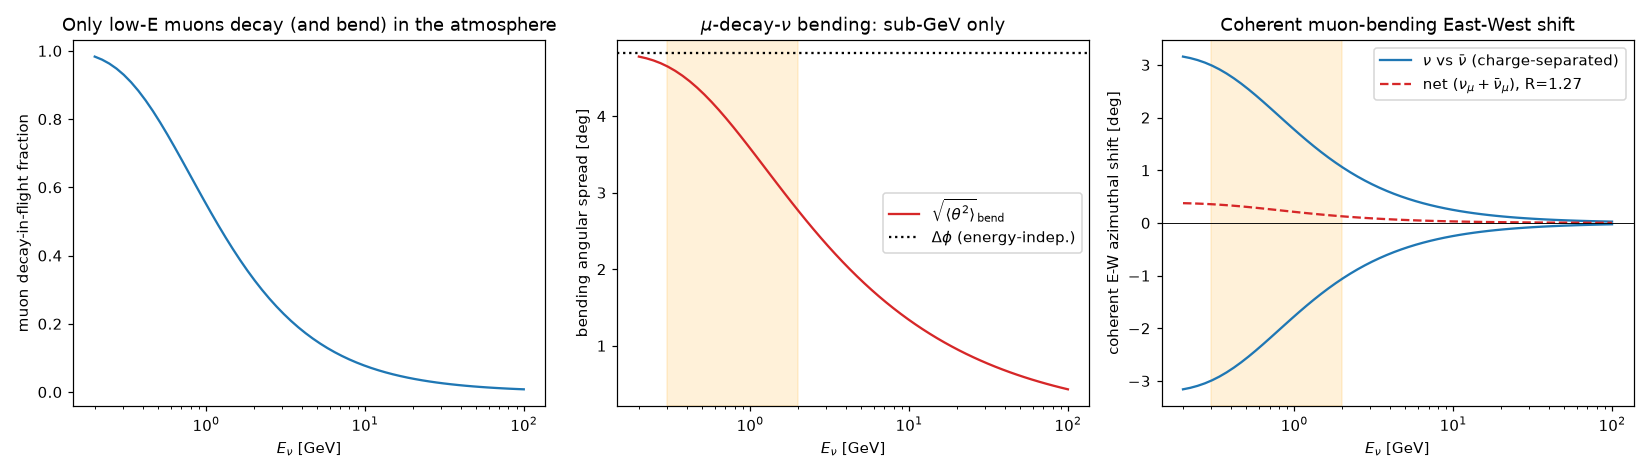
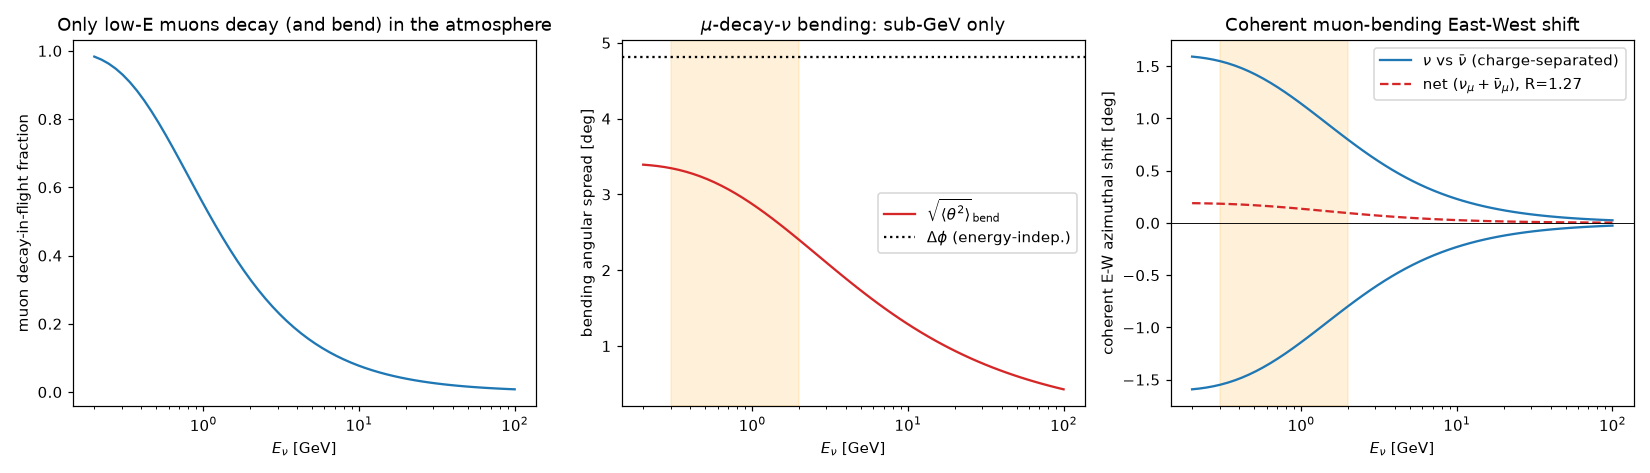
Address review: proper per-nucleus rigidity + zenith-dependent/channel-restricted muon bending
(1) Per-nucleus rigidity (review item #1, was High risk): the geomag cut now
splits the primary nucleon flux into free protons (A/Z=1, R=E) and bound nucleons
(He/CNO/Fe, A/Z~2, R~2E) using MCEq's own p,n fluxes (free p = p-n by isospin),
replacing the crude all-protons-R=E treatment. Bound nucleons are no longer
over-suppressed -> Honda agreement improves (0.5 GeV vertical 0.82->0.86, 1 GeV
0.91->0.94, up-going ->1.00).
(2) Muon bending (review item #2): replace the fixed 15 km path with the curved
zenith-dependent slant (path_length_km); restrict the bending to the muon-decay
nu_mu channel via muon_decay_numu_fraction w=f/(1+f) instead of bleeding into all
decay nu. Threaded zenith through mceq3d_solver.

diff --git a/tools/mceq3d/muon_bending.py b/tools/mceq3d/muon_bending.py
@@ -46,6 +46,8 @@ M_MU_KG = 1.883531e-28  # kg
 Q = 1.602176634e-19  # C
 C = 2.99792458e8  # m/s
 CTAU_MU = C * TAU_MU  # ~659 m
+R_EARTH_KM = 6371.0
+H_MU_PROD_KM = 15.0  # representative muon production altitude
 
 
 def bending_angle(b_gauss=0.45):
@@ -61,24 +63,58 @@ def decay_length_km(e_mu_gev):
     return gamma * beta * CTAU_MU / 1e3
 
 
-def decay_in_flight_fraction(e_mu_gev, path_km=15.0):
-    """Fraction of muons of energy E that decay within ``path_km`` of atmosphere
-    (the rest reach the ground and produce no atmospheric decay neutrino)."""
+def path_length_km(zenith_deg=0.0, h_prod_km=H_MU_PROD_KM):
+    """Curved slant path [km] from muon production (~h_prod) down to the surface
+    for arrival zenith.
+
+    Replaces the old fixed 15 km with the real geometric path: vertical -> h_prod;
+    near the horizon -> ~sqrt(2 R h) (hundreds of km), so near-horizon muons
+    traverse much more atmosphere and decay more. Curved-Earth chord:
+    ``L = -R cosθ + sqrt((R cosθ)^2 + 2 R h + h^2)``.
+    """
+    c = np.cos(np.deg2rad(np.asarray(zenith_deg, dtype=float)))
+    R = R_EARTH_KM
+    return -R * c + np.sqrt((R * c) ** 2 + 2 * R * h_prod_km + h_prod_km**2)
+
+
+def decay_in_flight_fraction(e_mu_gev, path_km=None, zenith_deg=0.0):
+    """Fraction of muons of energy E that decay before reaching the ground.
+
+    The path is the **zenith-dependent** curved slant length
+    (:func:`path_length_km`) unless an explicit ``path_km`` is given.
+    """
+    if path_km is None:
+        path_km = path_length_km(zenith_deg)
     return 1.0 - np.exp(-path_km / decay_length_km(e_mu_gev))
 
 
-def numu_bending_sigma2(e_nu_gev, b_gauss=0.45, path_km=15.0):
-    """Angular-spread variance <theta^2> [rad^2] that muon bending adds to a
-    mu-decay neutrino of energy ``e_nu_gev``.
+def muon_decay_numu_fraction(e_nu_gev, zenith_deg=0.0):
+    """Fraction of nu_mu that come from **muon decay** (vs direct pi/K decay).
 
-    The neutrino carries ~1/3 of the muon energy on average, so E_mu ~ 3 E_nu.
-    The spread is the bending angle weighted by the decay-in-flight fraction
-    (only decaying muons contribute); the RMS over the exponential decay-time
-    distribution equals the mean bending angle (Delta_phi), so var ~ f * Dphi^2.
+    Muon-decay nu_mu exist only when the muon decays in flight; relative to the
+    always-present direct nu_mu the weight is bounded ``w = f/(1+f)`` with ``f``
+    the decay-in-flight fraction -> ~0.5 sub-GeV (muons decay), ->0 at high E
+    (muons reach the ground). This is the weight by which muon bending should be
+    applied to a *lumped* nu_mu sample, so it does **not** bleed into the
+    direct-decay nu_mu.
     """
-    e_mu = 3.0 * np.asarray(e_nu_gev, dtype=float)
-    f = decay_in_flight_fraction(e_mu, path_km)
-    return f * bending_angle(b_gauss) ** 2
+    f = decay_in_flight_fraction(
+        3.0 * np.asarray(e_nu_gev, dtype=float), zenith_deg=zenith_deg
+    )
+    return f / (1.0 + f)
+
+
+def numu_bending_sigma2(e_nu_gev, b_gauss=0.45, zenith_deg=0.0):
+    """Angular-spread variance <theta^2> [rad^2] that muon bending adds to the
+    *muon-decay* nu_mu component of a lumped nu_mu sample of energy ``e_nu_gev``.
+
+    E_mu ~ 3 E_nu; the per-muon-decay bending RMS is the (energy-independent)
+    Delta_phi, and it is applied with the **muon-decay nu_mu fraction**
+    :func:`muon_decay_numu_fraction` so it is restricted to that channel rather
+    than added to every decay neutrino: ``var = w_mudecay * Dphi^2``.
+    """
+    w = muon_decay_numu_fraction(e_nu_gev, zenith_deg)
+    return w * bending_angle(b_gauss) ** 2
 
 
 def bending_deflection(vel_hat, b_gauss_enu, charge=+1):
@@ -107,21 +143,21 @@ def coherent_ew_shift_deg(b_north_gauss=0.30, charge=+1):
     return np.degrees(d[0])  # east component
 
 
-def numu_ew_asymmetry(e_nu_gev, b_north_gauss=0.30, charge_ratio=1.27, path_km=15.0):
+def numu_ew_asymmetry(e_nu_gev, b_north_gauss=0.30, charge_ratio=1.27, zenith_deg=0.0):
     """Net East-West azimuthal displacement [deg] of the *summed* mu-decay
     neutrino flux from coherent muon bending.
 
     mu+ and mu- deflect oppositely (+/- the coherent shift); with a muon charge
     ratio ``R = N+/N-`` the net displacement of the (nu_mu + nubar_mu) sum is
-    ``shift * (R-1)/(R+1)``, gated by the decay-in-flight fraction (sub-GeV only).
-    The charge-*separated* shift (full +/- the value, for nu vs nubar) is the
-    larger, flavour-dependent effect; return both.
+    ``shift * (R-1)/(R+1)``, weighted by the muon-decay nu_mu fraction (so it is
+    restricted to that channel, and is sub-GeV only). The charge-*separated* shift
+    (full +/- the value, for nu vs nubar) is the larger, flavour-dependent effect;
+    return both. The decay weight uses the zenith-dependent path.
     """
-    e_mu = 3.0 * np.asarray(e_nu_gev, dtype=float)
-    f = decay_in_flight_fraction(e_mu, path_km)
+    w = muon_decay_numu_fraction(e_nu_gev, zenith_deg)
     shift = coherent_ew_shift_deg(b_north_gauss, charge=+1)  # mu+ east
-    net = shift * (charge_ratio - 1) / (charge_ratio + 1) * f
-    return dict(net_shift_deg=net, charge_separated_deg=shift * f)
+    net = shift * (charge_ratio - 1) / (charge_ratio + 1) * w
+    return dict(net_shift_deg=net, charge_separated_deg=shift * w)
 
 
 def main(argv=None):
@@ -135,13 +171,17 @@ def main(argv=None):
             f"  B = {b:.2f} G  ->  Delta_phi = {np.degrees(bending_angle(b)):.2f} deg"
         )
 
-    print("\ndecay-in-flight fraction (15 km path) & neutrino bending spread:")
-    print("  E_nu[GeV]   E_mu[GeV]   f_decay   sqrt<theta^2>_bend [deg]")
+    print("\nzenith-dependent slant path (muon production ~15 km -> surface):")
+    for z in (0.0, 60.0, 85.0):
+        print(f"  zenith {z:4.0f} deg -> path {path_length_km(z):7.1f} km")
+
+    print("\nmuon-decay-channel bending spread (restricted to mu-decay nu_mu):")
+    print("  E_nu[GeV]   E_mu[GeV]   w_mu-decay   sqrt<theta^2>_bend [deg]")
     for enu in (0.3, 1.0, 3.0, 10.0, 30.0):
         emu = 3 * enu
-        f = decay_in_flight_fraction(emu)
+        w = muon_decay_numu_fraction(enu)
         s = np.degrees(np.sqrt(numu_bending_sigma2(enu)))
-        print(f"  {enu:7.1f}    {emu:7.1f}    {f:6.3f}     {s:6.2f}")
+        print(f"  {enu:7.1f}    {emu:7.1f}    {w:6.3f}      {s:6.2f}")
 
     print("\ncoherent charge-dependent E-W shift (B_north=0.30 G, vertical muon):")
     print(

diff --git a/tools/mceq3d/mceq3d_flux.py b/tools/mceq3d/mceq3d_flux.py
@@ -131,6 +131,18 @@ class MCEq3DFlux:
         n = self.mceq.pman[(2112, 0)]
         self._p_sl = slice(p.lidx, p.uidx)
         self._n_sl = slice(n.lidx, n.uidx)
+        # Per-nucleus rigidity bookkeeping. The geomagnetic cutoff is on RIGIDITY
+        # R = (A/Z)*E_nucleon, so free protons (A/Z=1) and bound nucleons
+        # (He/CNO/Fe, A/Z~2) are cut at different energies. By isospin the bound
+        # protons ~ the neutron flux, so from MCEq's own p/n nucleon fluxes:
+        #   free protons  = p - n  (A/Z=1),   bound protons = n (A/Z~2).
+        p_arr = self._phi0_std[self._p_sl]
+        n_arr = self._phi0_std[self._n_sl]
+        with np.errstate(invalid="ignore", divide="ignore"):
+            self._f_free = np.where(
+                p_arr > 0, np.clip((p_arr - n_arr) / p_arr, 0.0, 1.0), 1.0
+            )
+        self._az_bound = 2.0  # <A/Z> of bound nucleons (He/CNO ~2.0, Fe 2.08)
 
     # -- base: MCEq per zenith, curved atmosphere, no geomag --
     def base(self, cos_zeniths):
@@ -157,8 +169,12 @@ class MCEq3DFlux:
         full = {s: self.mceq.get_solution(s, 0).copy() for s in SPECIES}
         G = {s: np.ones((len(rc_grid), len(self.e))) for s in SPECIES}
         for j, rc in enumerate(rc_grid):
-            tp = _transmission(self.e, rc, az_over_z=1.0)  # protons R=E
-            tn = _transmission(self.e, rc, az_over_z=2.0)  # bound n, R~2E
+            # proper per-nucleus rigidity: split the proton flux into free
+            # (A/Z=1) and bound (A/Z~2); neutrons are all bound.
+            t1 = _transmission(self.e, rc, az_over_z=1.0)
+            t2 = _transmission(self.e, rc, az_over_z=self._az_bound)
+            tp = self._f_free * t1 + (1.0 - self._f_free) * t2
+            tn = t2
             self.mceq._phi0[:] = self._phi0_std
             self.mceq._phi0[self._p_sl] *= tp
             self.mceq._phi0[self._n_sl] *= tn

diff --git a/tools/mceq3d/test_muon_bending.py b/tools/mceq3d/test_muon_bending.py
@@ -10,7 +10,27 @@ from muon_bending import (
     decay_in_flight_fraction,
     numu_bending_sigma2,
     numu_ew_asymmetry,
+    path_length_km,
+    muon_decay_numu_fraction,
 )
+
+
+def test_path_length_grows_with_zenith():
+    # vertical -> ~production altitude; near horizon -> hundreds of km (curved)
+    assert abs(path_length_km(0.0) - 15.0) < 0.1
+    assert path_length_km(60.0) > path_length_km(0.0)
+    assert path_length_km(89.0) > 100.0  # long near-horizon slant
+
+
+def test_muon_decay_fraction_bounded_and_falls():
+    # w = f/(1+f) in [0, 0.5], larger at low E (muons decay), ->0 at high E
+    w_lo = muon_decay_numu_fraction(0.3)
+    w_hi = muon_decay_numu_fraction(100.0)
+    assert 0.0 <= w_hi < w_lo <= 0.5
+    # near-horizon path is longer -> more decay -> larger weight at fixed E
+    assert muon_decay_numu_fraction(3.0, zenith_deg=85.0) > muon_decay_numu_fraction(
+        3.0, zenith_deg=0.0
+    )
 
 
 def test_coherent_shift_charge_antisymmetric():

diff --git a/tools/mceq3d/mceq3d_solver.py b/tools/mceq3d/mceq3d_solver.py
@@ -118,7 +118,11 @@ def solve(
     if muon_bending:
         from muon_bending import numu_bending_sigma2
 
-        theta_dec = np.sqrt(theta_dec**2 + numu_bending_sigma2(e))
+        # restricted to the muon-decay nu_mu channel (weighted by its fraction,
+        # not added to every decay nu) and using the zenith-dependent path.
+        theta_dec = np.sqrt(
+            theta_dec**2 + numu_bending_sigma2(e, zenith_deg=zenith_deg)
+        )
     if collimated:
         theta1 = np.zeros_like(theta1)
         theta_dec = np.zeros_like(theta_dec)
